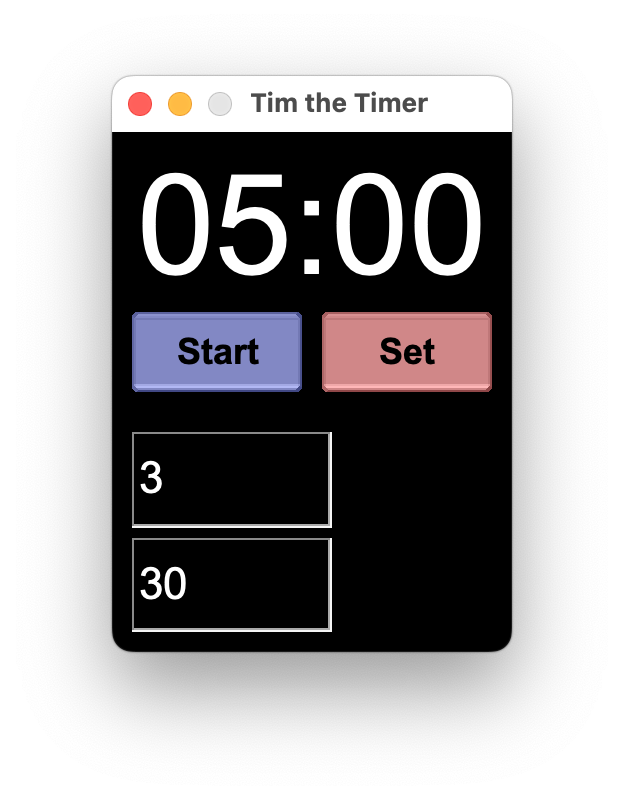
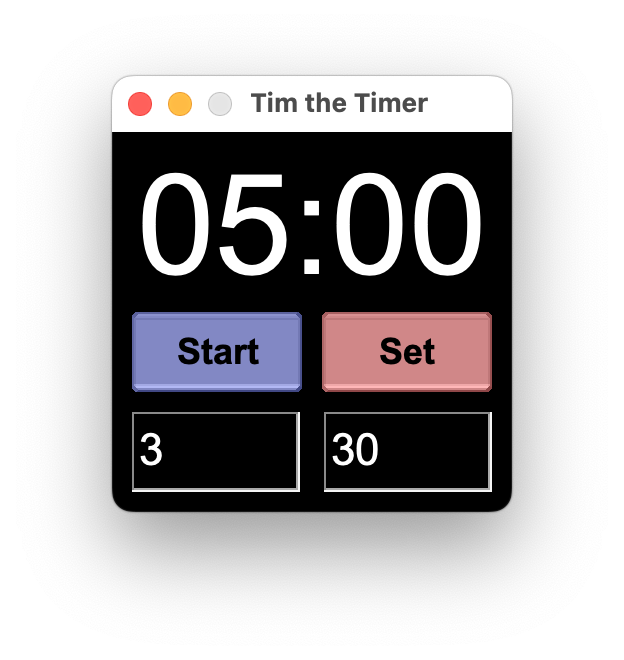
Input fields on same row

Changed region(s): [[0.1522, 0.0909, 0.8221, 0.8485]]

diff --git a/src/keyboard_event.rs b/src/keyboard_event.rs
@@ -23,7 +23,7 @@ impl KeyboardEvent {
         let mut input_minutes = input_minutes.clone();
         let mut input_seconds = input_seconds.clone();
 
-        let update_countdown = move |increase_minutes: i32, increase_seconds: i32| {
+        let change_countdown = move |increase_minutes: i32, increase_seconds: i32| {
             let mut new_input_minutes =
                 input_minutes.value().parse::<i32>().unwrap() + increase_minutes;
 
@@ -58,14 +58,14 @@ impl KeyboardEvent {
             tx.send(ChannelMessage::UpdateCountdown(countdown));
         };
 
-        let mut update_countdown_minutes = update_countdown.clone();
-        let mut update_minutes = move |minutes: i32| {
-            update_countdown_minutes(minutes, 0);
+        let mut change_countdown_minutes = change_countdown.clone();
+        let mut change_minutes = move |minutes: i32| {
+            change_countdown_minutes(minutes, 0);
         };
 
-        let mut update_countdown_seconds = update_countdown.clone();
-        let mut update_seconds = move |seconds: i32| {
-            update_countdown_seconds(0, seconds);
+        let mut change_countdown_seconds = change_countdown.clone();
+        let mut change_seconds = move |seconds: i32| {
+            change_countdown_seconds(0, seconds);
         };
 
         window.lock().unwrap().handle(move |_, ev| match ev {
@@ -84,21 +84,21 @@ impl KeyboardEvent {
                 let event_key = app::event_key();
 
                 if is_ctrl_shift && event_key == Key::Up {
-                    update_seconds(5);
+                    change_seconds(5);
                 } else if is_ctrl_shift && event_key == Key::Down {
-                    update_seconds(-5);
+                    change_seconds(-5);
                 } else if is_shift && event_key == Key::Up {
-                    update_seconds(1);
+                    change_seconds(1);
                 } else if is_shift && event_key == Key::Down {
-                    update_seconds(-1);
+                    change_seconds(-1);
                 } else if is_ctrl && event_key == Key::Up {
-                    update_minutes(5);
+                    change_minutes(5);
                 } else if is_ctrl && event_key == Key::Down {
-                    update_minutes(-5);
+                    change_minutes(-5);
                 } else if event_key == Key::Up {
-                    update_minutes(1);
+                    change_minutes(1);
                 } else if event_key == Key::Down {
-                    update_minutes(-1);
+                    change_minutes(-1);
                 }
                 false
             }

diff --git a/src/buttons/set_button.rs b/src/buttons/set_button.rs
@@ -14,6 +14,8 @@ pub struct SetButton {
     pub button: Button,
 }
 
+const EXPANDED_WINDOW_HEIGHT: i32 = 190;
+
 impl SetButton {
     pub fn new(
         mut start_button: Button,
@@ -30,8 +32,6 @@ impl SetButton {
         button.set_label_size(18);
 
         button.set_callback(move |_button| {
-            println!("Clicked SetButton");
-
             start_button.set_label("Start");
             start_button.set_color(Color::Blue);
 
@@ -43,12 +43,12 @@ impl SetButton {
                 .send(ChannelMessage::StopCountdown)
                 .expect("Failed to get stop countdown message");
 
-            if local_window.pixel_h() > 400 {
+            if local_window.pixel_h() > WINDOW_HEIGHT + EXPANDED_WINDOW_HEIGHT {
                 flex.hide();
                 local_window.set_size(200, WINDOW_HEIGHT);
             } else {
                 flex.show();
-                local_window.set_size(200, 260);
+                local_window.set_size(200, EXPANDED_WINDOW_HEIGHT);
             }
         });
 

diff --git a/src/main.rs b/src/main.rs
@@ -43,10 +43,9 @@ fn main() {
 
     frame.set_label_color(Color::White);
 
-    let mut flex = group::Flex::default()
-        .with_size(100, 100)
-        .column()
-        .with_pos(10, 150);
+    let mut flex = group::Flex::default().with_size(180, 40).with_pos(10, 140);
+    flex.set_pad(12);
+
     let mut input_minutes = input::IntInput::default();
     let mut input_seconds = input::IntInput::default();
 
